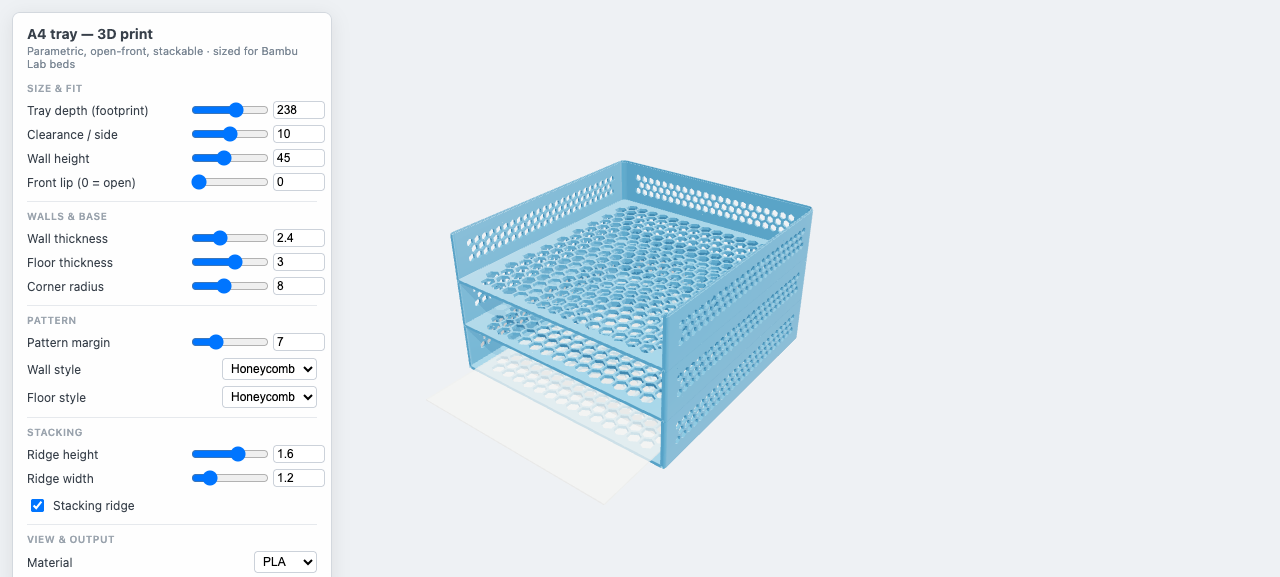
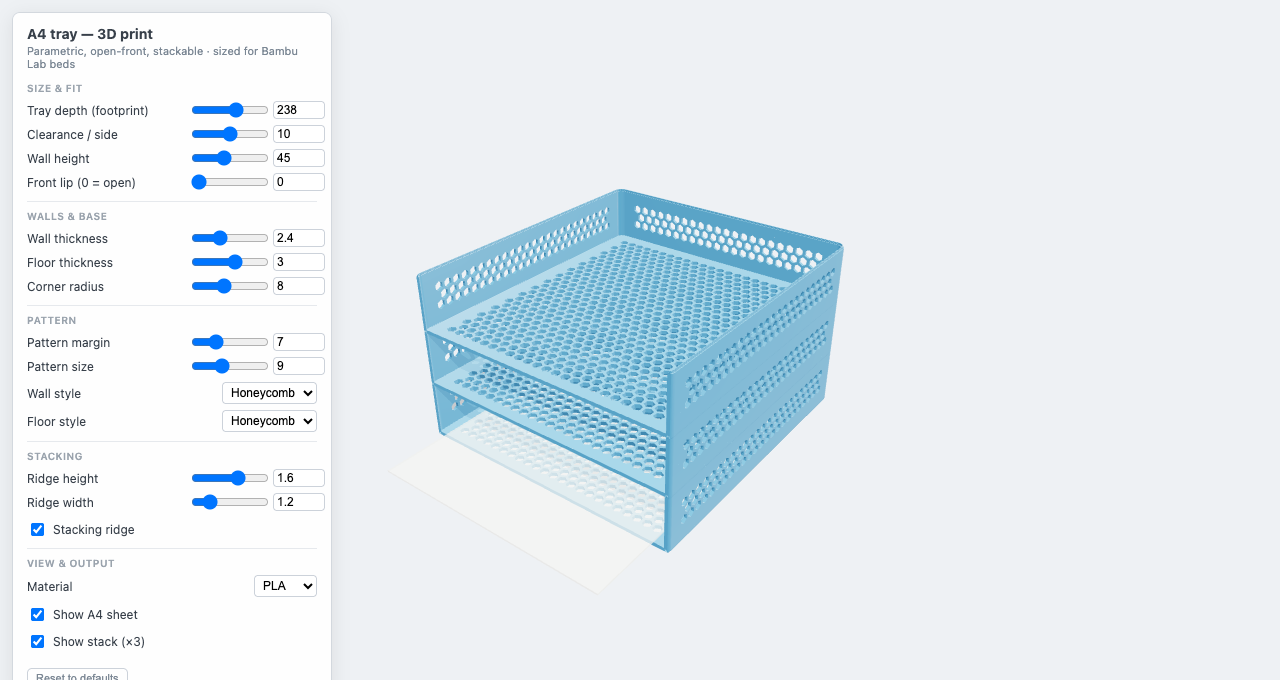
Update README + hero for module split, grouped/mod badges, metres estimate

diff --git a/README.md b/README.md
@@ -21,9 +21,10 @@ so it fits smaller beds.
   above, so trays self-register when nested. Both are tapered to print without support.
 - **7 wall + floor styles** — solid, louvres, grid, holes, diamond, honeycomb, voronoi — to cut
   weight and filament. A honeycomb wall+floor roughly halves the mass.
-- **Live filament estimate** in grams (PLA / PETG / ABS / TPU).
+- **Live filament estimate** in grams and metres of 1.75 mm filament (PLA / PETG / ABS / TPU).
 - **Bambu Lab fit badges** — shows at a glance which beds the current footprint fits
-  (A1 mini · A1 · P1P · P1S · X1C · H2D · H2S · H2C), accounting for 90° rotation.
+  (A1 mini · A1 · P1/X1 · H2D · H2C · H2S), accounting for 90° rotation. Amber means it fits
+  only with the P1/X1 filament-cutter [exclusion-zone mod](https://wiki.bambulab.com/en/knowledge-sharing/print-volume-limitations).
 - **One-click binary STL export.**
 
 ## Run
@@ -43,10 +44,12 @@ Grouped in the panel: **Size & fit** (depth, clearance, wall height, front lip) 
 
 ## How it works
 
-- `src/params.ts` — pure parameter types, defaults, derived dimensions, and the Bambu bed table.
+- `src/params.ts` — pure parameter types, defaults, and derived dimensions.
+- `src/printers.ts` — Bambu bed table (grouped by size) and the bed-fit / exclusion-zone-mod logic.
 - `src/tray.ts` — `Params → one watertight BufferGeometry`. Built with [three-bvh-csg](https://github.com/gkjohnson/three-bvh-csg)
   booleans (manifold output), modelled **Z-up, base on z = 0, millimetres** (slicer convention).
-- `src/viewer/main.ts` — Three.js scene, sliders, live readout, and the STL exporter.
+- `src/viewer/` — `main.ts` wires it together; `scene.ts` (renderer/camera/lights, renders on
+  demand), `readout.ts` (volume estimate + fit badges), `controls.ts` (the slider panel).
 
 ## Printing
 
